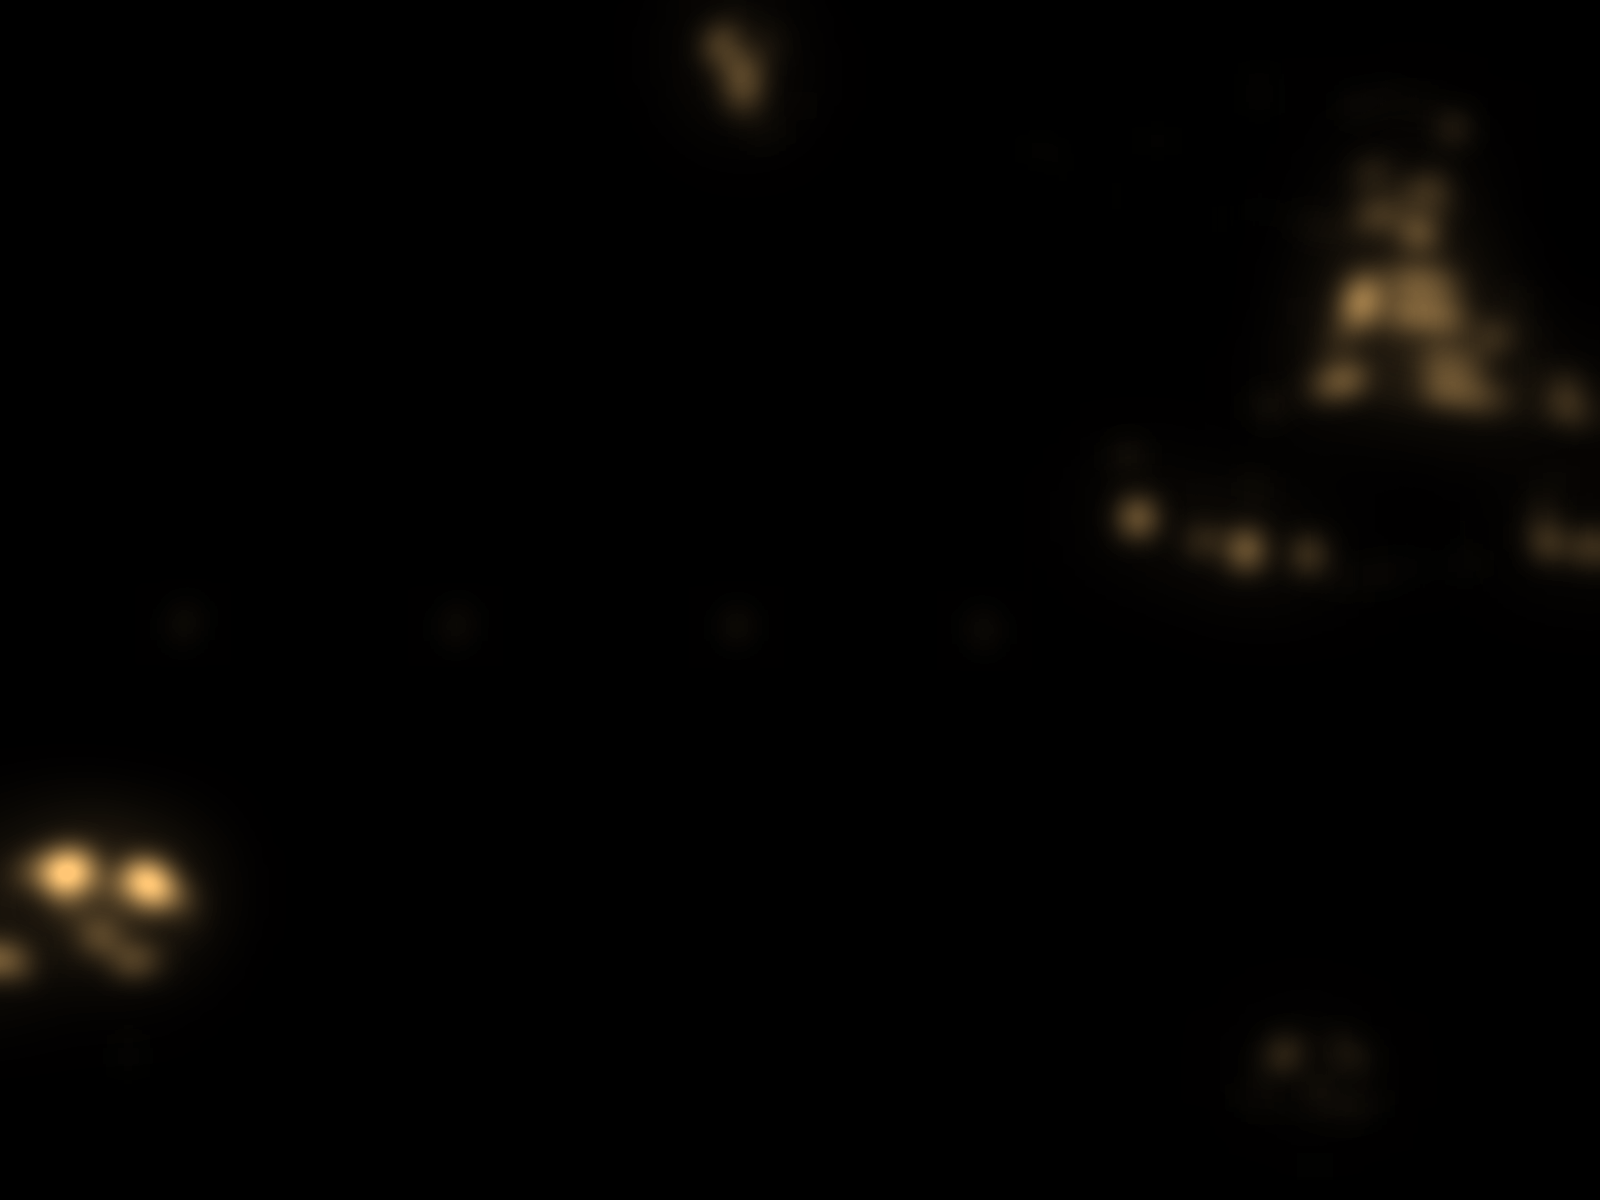
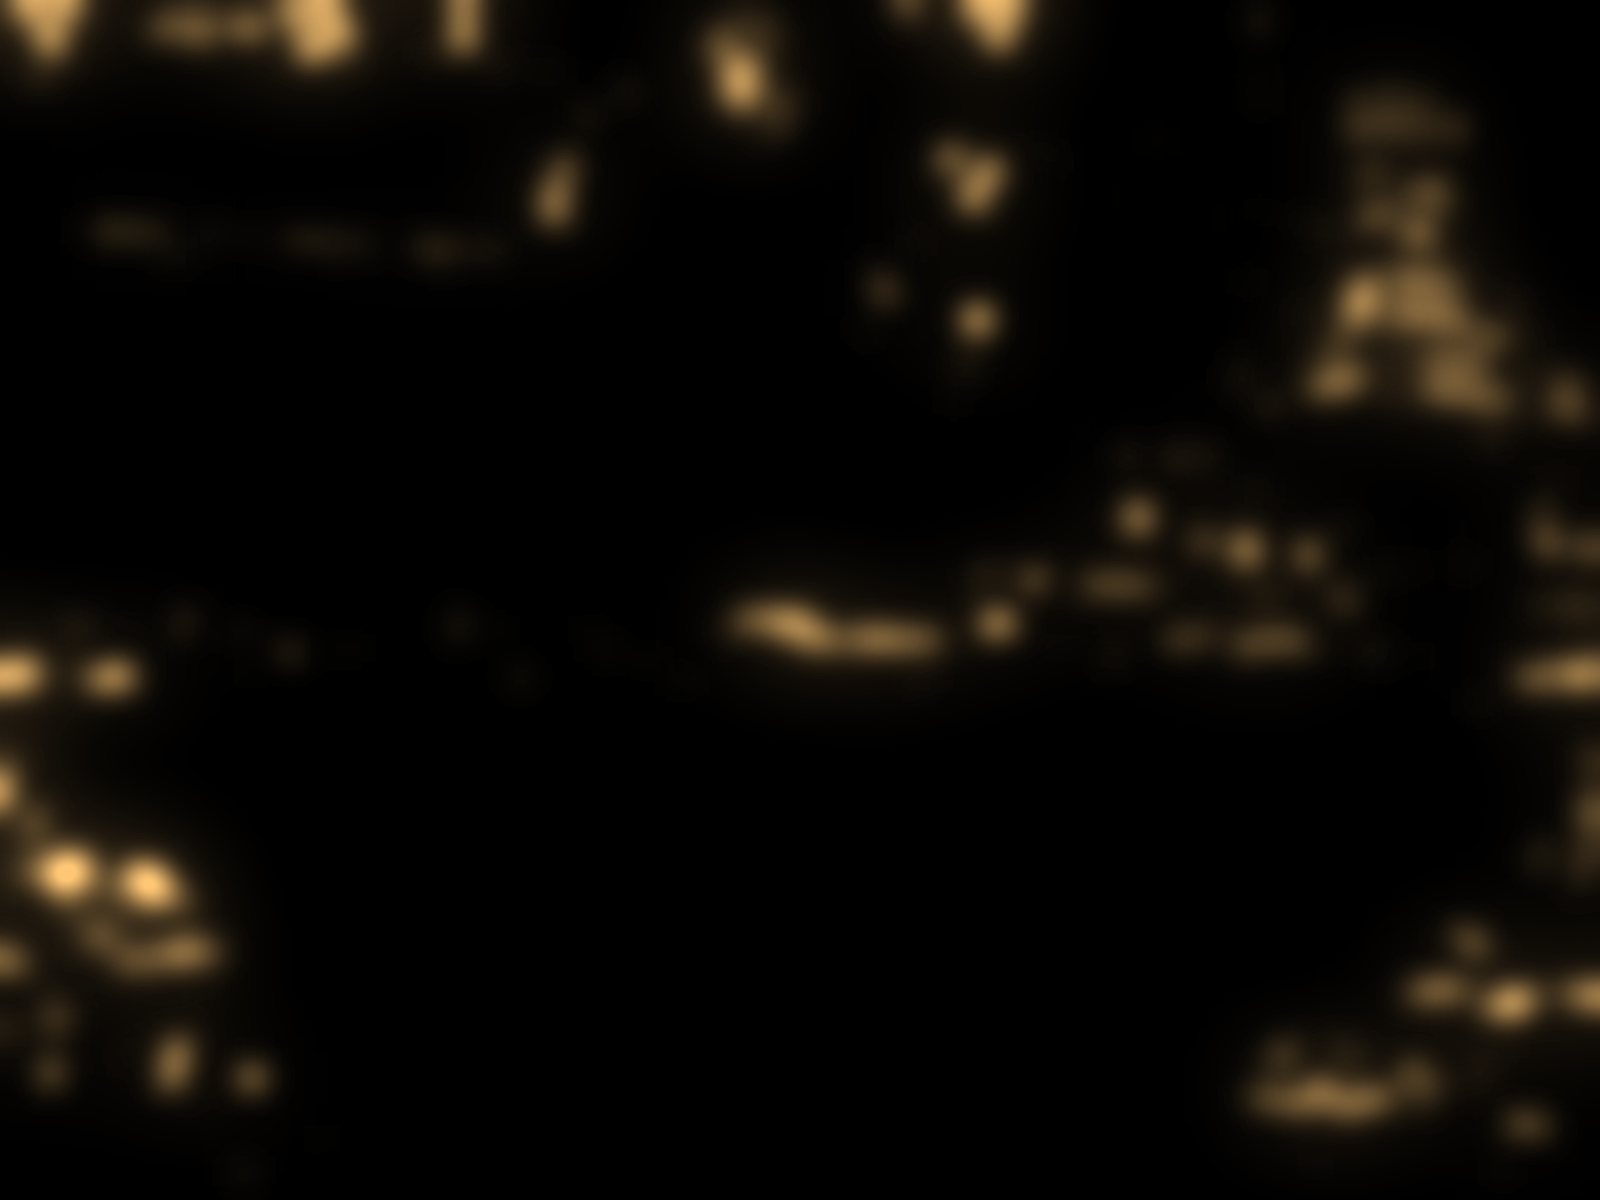
fix: Sam's arm meets the hand on the desk; softer mood with every tree bulb glowing; leaf-blower tube; no receipt lines + glow on 29; mansion behind the town (54)
Claude-Session: https://claude.ai/code/session_01BFhReQ2JcUvxWY8MGAMx4B

diff --git a/src/Still.tsx b/src/Still.tsx
@@ -39,6 +39,15 @@ export function Still({shot, t, frame, image, children}: {shot: Shot; t: number;
       {shot.fx?.includes('tower') && <Tower shot={shot} t={ta} />}
       {shot.fx?.includes('star') && <Star t={ta} />}
       <Overlays shot={shot} t={ta} ts={t} />
+      {(shot as {mood?: {dark: number}}).mood && <>
+        {/* mood: the scene darkened everywhere except around its own lights, then the lights bloom over it, flickering like candles.
+            The hidden <Img> makes Remotion wait for the mask image, which a CSS mask alone would not. */}
+        <Img src={staticFile(`light/${shot.id}-dark.png`)} style={{position: 'absolute', width: 1, height: 1, opacity: 0}} />
+        <div style={{position: 'absolute', left: 0, top: 0, width: STILL_W, height: STILL_H, background: `rgba(8, 10, 32, ${(shot as {mood?: {dark: number}}).mood!.dark})`,
+          WebkitMaskImage: `url(${staticFile(`light/${shot.id}-dark.png`)})`, maskImage: `url(${staticFile(`light/${shot.id}-dark.png`)})`, WebkitMaskSize: '100% 100%', maskSize: '100% 100%'}} />
+        <Img src={staticFile(`light/${shot.id}-glow.png`)} style={{position: 'absolute', left: 0, top: 0, width: STILL_W, height: STILL_H, mixBlendMode: 'screen',
+          opacity: 0.55 + 0.08 * Math.sin(t * 13.1) + 0.05 * Math.sin(t * 31.7 + 1.3)}} />
+      </>}
       {CHOREO[shot.id] && <svg width={STILL_W} height={STILL_H} style={{position: 'absolute', left: 0, top: 0, overflow: 'visible'}}>
         {CHOREO[shot.id](t, frame, shot).map((p, i) => {
           if (isFront(p)) return <g key={i}><clipPath id={`front-${shot.id}`}><rect x={0} y={p.front.y} width={STILL_W} height={STILL_H - p.front.y} /></clipPath>
@@ -59,15 +68,6 @@ export function Still({shot, t, frame, image, children}: {shot: Shot; t: number;
         })}
       </svg>}
       {children}
-      {(shot as {mood?: {dark: number}}).mood && <>
-        {/* mood: the scene darkened everywhere except around its own lights, then the lights bloom over it, flickering like candles.
-            The hidden <Img> makes Remotion wait for the mask image, which a CSS mask alone would not. */}
-        <Img src={staticFile(`light/${shot.id}-dark.png`)} style={{position: 'absolute', width: 1, height: 1, opacity: 0}} />
-        <div style={{position: 'absolute', left: 0, top: 0, width: STILL_W, height: STILL_H, background: `rgba(8, 10, 32, ${(shot as {mood?: {dark: number}}).mood!.dark})`,
-          WebkitMaskImage: `url(${staticFile(`light/${shot.id}-dark.png`)})`, maskImage: `url(${staticFile(`light/${shot.id}-dark.png`)})`, WebkitMaskSize: '100% 100%', maskSize: '100% 100%'}} />
-        <Img src={staticFile(`light/${shot.id}-glow.png`)} style={{position: 'absolute', left: 0, top: 0, width: STILL_W, height: STILL_H, mixBlendMode: 'screen',
-          opacity: 0.55 + 0.08 * Math.sin(t * 13.1) + 0.05 * Math.sin(t * 31.7 + 1.3)}} />
-      </>}
       {inWorld.map((e, i) => {
         // entries share their surface, stacked; an entry with its own surface (`own`, a split line) fills it alone
         const shared = inWorld.filter(x => !x.own), k = e.own ? 0 : shared.indexOf(e), n = e.own ? 1 : shared.length;

diff --git a/src/shots/07.ts b/src/shots/07.ts
@@ -8,7 +8,9 @@ import {twos} from './kit.ts';
 import type {Choreo, Item} from './types.ts';
 
 const beats: number[] = audio.beats, snares: number[] = (audio.snares as number[][]).map(s => s[0]);
-const SHOULDER: P = [845, 730], WRIST: P = [950, 768], SEAT: P = [780, 900], SCREEN: P = [800, 336];
+// WRIST sits just inside the painted hand's wrist, so the cuff overlaps it
+// SHOULDER: on the sweater seam, where the arm leaves the body
+const SHOULDER: P = [835, 748], WRIST: P = [952, 835], SEAT: P = [780, 900], SCREEN: P = [800, 336];
 const DART = 0.1;
 
 const spot = (i: number): P => [Math.round(90 * (hash(i * 3.1) - 0.5)), Math.round(30 * (hash(i * 7.7) - 0.5))];
@@ -30,9 +32,9 @@ export const shot07: Choreo = (_t, frame) => {
   const wrist = add(WRIST, m), cursor = add(SCREEN, [m[0] * 4, m[1] * 5]);
   const items: Item[] = [
     {layer: m[0] < -15 ? '07/sam-head-left' : '07/sam', dy: bob, rot, pivot: SEAT},
-    // hand + mouse sit 50 px higher and are drawn first, so the sleeve's cuff overlaps the wrist
-    {layer: '07/hand', dx: m[0], dy: m[1] - 50 + 2 * press, sy: press ? 0.92 : 1, pivot: [1010, 810]},
-    {hose: {a: shoulder, b: wrist, L: 150, side: 1, width: 28, fill: '#9a9aa0', ink: '#17121c'}},
+    // hand + mouse stay on the desk where they're painted; the sleeve is drawn after, its cuff over the wrist
+    {layer: '07/hand', dx: m[0], dy: m[1] + 2 * press, sy: press ? 0.92 : 1, pivot: [1010, 860]},
+    {hose: {a: shoulder, b: wrist, L: 158, side: 1, width: 32, fill: '#9a9aa0', ink: '#17121c'}},
     {layer: '07/chair-back'},
     {draw: {kind: 'cursor', at: cursor, size: 46}},
   ];

diff --git a/src/shots/ram-side-shots.ts b/src/shots/ram-side-shots.ts
@@ -136,7 +136,12 @@ export const shot25: Choreo = (_t, frame, shot) => {
     if (u > 0 && u < 1) items.push({draw: {kind: 'dot', at: [lerp(g.wandEnd[0], g.socket[0], u), lerp(g.wandEnd[1], g.socket[1], u) + 60 * Math.sin(Math.PI * u)], size: 46, color: '#7d6140', ink: '#17121c'}});
   }
   const ang = Math.atan2(g.mouth[1] - g.wandEnd[1], g.wandEnd[0] - g.mouth[0]) * 180 / Math.PI;
-  items.push({sprite: 'sprites/vacuum/nozzle', at: g.wandEnd, scale: NOZ_S, size: [360, 140], anchor: [12, 70], flip: true, rot: -ang});
+  // a leaf-blower tube: straight rigid red tube with brass bands, its round opening facing left at the shelf
+  items.push({draw: {kind: 'line', at: g.wandEnd, to: g.mouth, size: 78, color: '#17121c'}});
+  items.push({draw: {kind: 'line', at: g.wandEnd, to: g.mouth, size: 68, color: '#c8102e'}});
+  for (const u of [0.15, 0.55, 0.92]) items.push({draw: {kind: 'line', at: [lerp(g.wandEnd[0], g.mouth[0], u) - 7, lerp(g.wandEnd[1], g.mouth[1], u)], to: [lerp(g.wandEnd[0], g.mouth[0], u) + 7, lerp(g.wandEnd[1], g.mouth[1], u)], size: 74, color: '#e0b040'}});
+  items.push({draw: {kind: 'ellipse', at: g.mouth, size: 0, w: 46, h: 96, color: '#e0b040', rot: -ang}});
+  items.push({draw: {kind: 'ellipse', at: [g.mouth[0] - 4, g.mouth[1]], size: 0, w: 30, h: 76, color: '#1b0f08', rot: -ang, mouth: true}});
   for (let k = Math.max(0, g.n - 6); k < g.n; k++) {   // boxes whooshing off the shelf into the mouth
     const bx = BOXES[k], u = clamp01((t - grabTime(k, shot)) / 0.3);
     if (u >= 1) continue;

diff --git a/src/shots/Draw.tsx b/src/shots/Draw.tsx
@@ -21,7 +21,7 @@ export function Draw({p}: {p: DrawItem}) {
   switch (d.kind) {
     case 'cursor': return <path transform={`${T} scale(${s / 40})`} opacity={op} d="M0,0 L0,34 L9,26 L15,40 L21,37 L15,24 L27,24 Z" fill={d.color ?? '#fff'} stroke={ink} strokeWidth={3} strokeLinejoin="round" />;
     case 'ring': return <circle cx={x} cy={y} r={s} fill="none" stroke={d.color ?? '#fff'} strokeWidth={Math.max(2, s * 0.12)} opacity={op} />;
-    case 'ellipse': return <ellipse cx={x} cy={y} rx={(d.w ?? s) / 2} ry={(d.h ?? s) / 2} fill={d.color ?? '#f6e7c4'} stroke={ink} strokeWidth={3} opacity={op} />;
+    case 'ellipse': return <ellipse transform={`rotate(${d.rot ?? 0},${x},${y})`} cx={x} cy={y} rx={(d.w ?? s) / 2} ry={(d.h ?? s) / 2} fill={d.color ?? '#f6e7c4'} stroke={ink} strokeWidth={3} opacity={op} />;
     case 'rect': return <rect x={x - (d.w ?? s) / 2} y={y - (d.h ?? s) / 2} width={d.w ?? s} height={d.h ?? s} rx={2} fill={d.color ?? '#141a33'} opacity={op} />;
     case 'dot': return <circle cx={x} cy={y} r={s} fill={d.color ?? '#fff'} opacity={op} />;
     case 'drop': return <path transform={`${T} scale(${s / 20})`} opacity={op} d="M0,-20 C6,-8 12,0 12,8 A12,12 0 0 1 -12,8 C-12,0 -6,-8 0,-20 Z" fill={d.color ?? '#9fe3ff'} stroke={ink} strokeWidth={2} />;

diff --git a/src/shots/types.ts b/src/shots/types.ts
@@ -17,7 +17,7 @@ export type FrontItem = {front: {y: number}};
 export type LayerItem = {layer: string; dx?: number; dy?: number; rot?: number; sx?: number; sy?: number; pivot?: P; opacity?: number};
 /** Small vector marks drawn in code: cursor, click ring, tear, music note, speed line, text, dot, snowflake. */
 export type DrawKind = 'cursor' | 'ring' | 'drop' | 'note' | 'line' | 'text' | 'dot' | 'flake' | 'rect' | 'ellipse';
-export type DrawItem = {draw: {kind: DrawKind; at: P; size: number; to?: P; w?: number; h?: number; pressed?: boolean; tile?: boolean; rot?: number; color?: string; ink?: string; opacity?: number; text?: string; font?: string}};
+export type DrawItem = {draw: {kind: DrawKind; at: P; size: number; to?: P; w?: number; h?: number; pressed?: boolean; tile?: boolean; mouth?: boolean; rot?: number; color?: string; ink?: string; opacity?: number; text?: string; font?: string}};
 export type Item = Placed | SpriteItem | HoseItem | ShadeItem | TeamItem | FrontItem | LayerItem | DrawItem;
 export const isLayer = (i: Item): i is LayerItem => (i as LayerItem).layer !== undefined;
 export const isDraw = (i: Item): i is DrawItem => (i as DrawItem).draw !== undefined;

diff --git a/src/fx/Tower.tsx b/src/fx/Tower.tsx
@@ -64,6 +64,7 @@ export function Tower({shot, t}: {shot: {id: string; still: string; towerStage: 
       <svg width={STILL_W} height={STILL_H} style={{position: 'absolute', left: 0, top: 0, overflow: 'visible'}}>
         <Emitters top={top} stage={ex ? 5 + Math.round(3 * ex.glow) : stage} t={t} scale={Math.max(0.6, (spec.poly[2][1] - spec.poly[0][1]))} />
       </svg>
+      {(shot as {towerBehind?: boolean}).towerBehind && <Img src={staticFile(`plates/${shot.id}-front.png`)} style={{position: 'absolute', left: 0, top: 0, width: STILL_W, height: STILL_H}} />}
     </>;
   }
   const mask = maskUrl(spec.poly);

diff --git a/scripts/make_lightmaps.py b/scripts/make_lightmaps.py
@@ -8,6 +8,7 @@ import json, sys
 from pathlib import Path
 import numpy as np
 from PIL import Image, ImageFilter
+from scipy import ndimage
 
 def light_mask(img):
     a = np.asarray(img.convert('RGB'), dtype=np.float32) / 255
@@ -20,7 +21,15 @@ def light_mask(img):
     v = Image.fromarray((mx * 255).astype(np.uint8))
     local = mx - np.asarray(v.filter(ImageFilter.GaussianBlur(18)), dtype=np.float32) / 255
     white = (mn > 0.93) & (sat < 0.12) & (mx > 0.97) & (local > 0.08)
-    return ((yellow & (local > 0.03)) | white).astype(np.float32)
+    # coloured bulbs (tree lights): small, saturated, locally bright blobs of ANY hue
+    cand = (sat > 0.5) & (mx > 0.7) & (local > 0.08)
+    lab, n = ndimage.label(cand)
+    if n:
+        area = ndimage.sum(cand, lab, range(1, n + 1))
+        small = np.isin(lab, np.nonzero((area >= 4) & (area <= 900))[0] + 1)
+    else:
+        small = np.zeros_like(cand)
+    return ((yellow & (local > 0.03)) | white | small).astype(np.float32)
 
 def blur(m, s):
     return np.asarray(Image.fromarray((m * 255).astype(np.uint8)).filter(ImageFilter.GaussianBlur(s)), dtype=np.float32) / 255
@@ -35,8 +44,18 @@ def maps(img):
     dark = np.zeros((*m.shape, 4), np.uint8); dark[..., 3] = ((1 - open_) * 255).astype(np.uint8)
     return m, Image.fromarray(glow_rgb), Image.fromarray(dark, 'RGBA')
 
+def hue_counts(img, m):
+    a = np.asarray(img.convert('RGB'), dtype=np.float32) / 255
+    r, g, b = a[..., 0], a[..., 1], a[..., 2]
+    on = m > 0
+    return {'red': int((on & (r > g + 0.25) & (r > b + 0.25)).sum()), 'green': int((on & (g > r + 0.15) & (g > b + 0.1)).sum()),
+            'blue': int((on & (b > r + 0.2) & (b > g + 0.05)).sum()), 'yellow': int((on & (r > 0.8) & (g > 0.7) & (b < 0.55)).sum())}
+
 def main():
-    shots = [s for s in json.load(open('src/shots.json')) if s.get('mood')]
+    if '--hues' in sys.argv:   # debugging/tests: which colours of light are detected in one shot
+        s = next(x for x in json.load(open('src/shots.json')) if x['id'] == sys.argv[sys.argv.index('--hues') + 1])
+        img = Image.open('public/' + (s['plate'] if s.get('plate') else s['still'])); print(json.dumps(hue_counts(img, light_mask(img)))); return
+    shots = [s for s in json.load(open('src/shots.json')) if 'mood' in s]
     stats, out = {}, Path('public/light'); out.mkdir(parents=True, exist_ok=True)
     for s in shots:
         src = 'public/' + (s['plate'] if s.get('plate') else s['still'])

diff --git a/scripts/cut_plate_layers.py b/scripts/cut_plate_layers.py
@@ -30,5 +30,19 @@ paper = ndimage.binary_fill_holes(lab == lab[665, 800])
 tag = ndimage.binary_dilation(paper, iterations=9)
 mask = np.asarray(Image.fromarray((tag * 255).astype('uint8')).filter(ImageFilter.GaussianBlur(1.0)))
 save('18/tag', pl, mask, 0, 0)
+# 54: the town with its sky keyed out (plates/54-front.png), redrawn over the cut-out tower so the mansion sits behind it
+pl = np.asarray(Image.open('public/plates/54.png').convert('RGB')).astype(np.float32) / 255
+r, g, b = pl[..., 0], pl[..., 1], pl[..., 2]
+lum = 0.3 * r + 0.59 * g + 0.11 * b
+sky = (b > r + 0.04) & (lum < 0.42) & (np.arange(pl.shape[0])[:, None] < pl.shape[0] * 0.8)
+sky = ndimage.binary_opening(sky, iterations=1)
+# the plate still has the old tower painted in: key out everything inside the cut-out tower's own silhouette
+# except the houses/trees in front of it (the bottom band below the tower's foot)
+T = idx['54/tower']; tw = np.asarray(Image.open('public/sprites/layers/54/tower.png').getchannel('A')) > 40
+tower = np.zeros(sky.shape, bool); tower[T['y']:T['y'] + T['h'], T['x']:T['x'] + T['w']] = tw
+tower = ndimage.binary_dilation(tower, iterations=6); tower[int(0.56 * pl.shape[0]):] = False
+sky |= tower
+alpha = np.asarray(Image.fromarray(((~sky) * 255).astype('uint8')).filter(ImageFilter.GaussianBlur(1.2)))
+Image.fromarray(np.dstack([(pl * 255).astype('uint8'), alpha]), 'RGBA').save('public/plates/54-front.png')
 idx_path.write_text(json.dumps(idx, indent=1) + '\n')
 print(idx['07/chair-back'], idx['18/tag'])

diff --git a/scripts/build_shots.py b/scripts/build_shots.py
@@ -95,8 +95,9 @@ def build():
         elif m.get('plate'): shots[-1]['plate'] = f"plates/{sid}.png"
         if m.get('towerCut'): shots[-1]['towerCut'] = True   # the tower is its own layer (layers/NN/tower) over a tower-free plate
         if m.get('indoor'): shots[-1]['indoor'] = True   # no falling snow inside
+        if m.get('towerBehind'): shots[-1]['towerBehind'] = True   # plates/NN-front.png (sky keyed out) redrawn over the tower
         if m.get('towerDy'): shots[-1]['towerDy'] = m['towerDy']   # nudge a cut-out tower down onto its hill (still px)
-        if m.get('mood'): shots[-1]['mood'] = {'dark': m['mood']}   # darken, lit by its own lights (make_lightmaps.py)
+        if 'mood' in m: shots[-1]['mood'] = {'dark': m['mood']}   # mood 0 = glow only   # darken, lit by its own lights (make_lightmaps.py)
         if 'push' in s:
             pt = imp[s['push']['t']] if isinstance(s['push']['t'], str) else s['push']['t']
             shots[-1]['camera']['push'] = {**dict(zip(('x', 'y', 'zoom', 'rot'), s['push']['to'])), 't': pt, 'dur': s['push'].get('dur', 0.3)}
